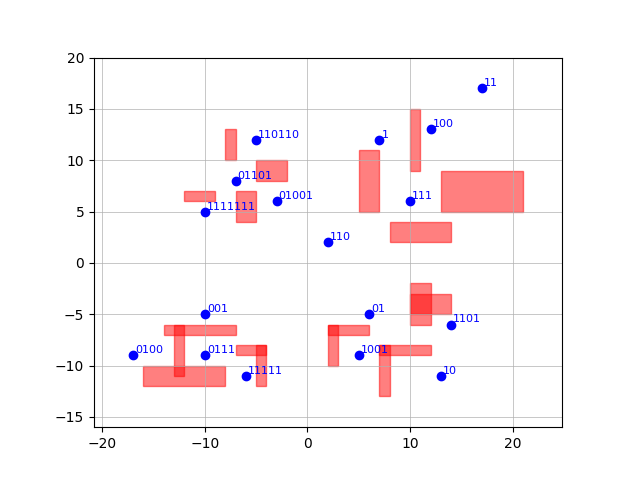
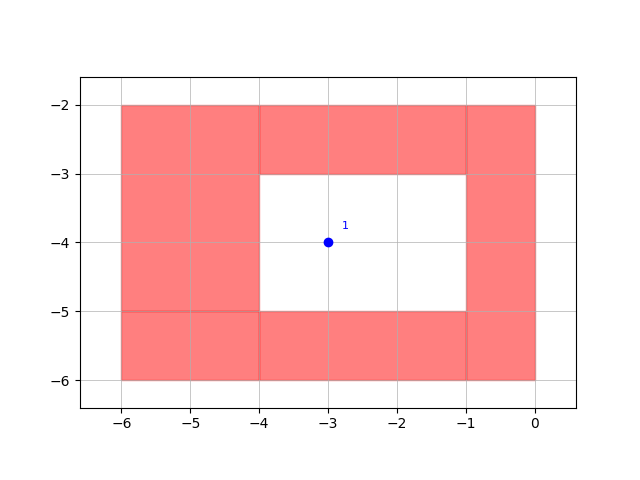
+ relazione

diff --git a/relazione.tex b/relazione.tex
@@ -64,13 +64,128 @@ Le entità principali da modellare sul piano (oltre al piano stesso) sono gli \t
 Di cruciale importanza è la richiesta di sapere, dato un punto $(x, y)$ e il nome $\eta$ di un automa, se esiste un percorso libero da $P(\eta)$ a $(x, y)$ di lunghezza $D(P(\eta), (x, y))$. E' la richiesta più complicata da risolvere (in quanto i richiami si basano su di essa) e si possono fare le seguenti considerazioni:
 
 \begin{itemize}
-    \item poichè si richiede l'esistenza di un percorso libero con lunghezza pari alla lunghezza minima di un percorso tra i due punti, i passi unitari possono essere fatti seguendo al massimo \textit{2} direzioni sulle \textit{4} possibili. Per esempio, un percorso di distanza minima tra il punto $(2, 2)$ e il punto $(5, 5)$ può essere composto, partendo da $(2, 2)$ solo da passi unitari in cui si incrementa di \textit{1} la coordinata \textit{x} o si incrementa di \textit{1} la coordinata \textit{y} (non è mai possibile decrementare tali coordinate, o non si avrebbe un percorso di distanza minima)
+    \item poichè si richiede l'esistenza di un percorso libero con lunghezza pari alla lunghezza minima di un percorso tra i due punti, i passi unitari possono essere fatti seguendo al massimo \textit{2} direzioni sulle \textit{4} possibili. Per esempio, un percorso di distanza minima tra il punto $(2, 2)$ e il punto $(5, 5)$ può essere composto, partendo da $(2, 2)$, solo da passi unitari in cui si incrementa di \textit{1} la coordinata \textit{x} o si incrementa di \textit{1} la coordinata \textit{y} (non è mai possibile decrementare tali coordinate, o non si avrebbe un percorso di distanza minima)
 
     \item partendo da un automa è sicuro che il punto di partenza non si trovi all'interno dell'area di un ostacolo. Nella simulazione di un percorso tra un automa e un punto possiamo affermare che tale percorso non è libero non appena incontra un punto che si trova sul perimetro di un ostacolo. Può essere quindi interessante memorizzare i punti che si trovano sul perimetro degli ostacoli
 \end{itemize}
 
 \section{Modellazione e strutture dati utilizzate}
 
-%% TODO: sulla base delle considerazioni fatte, ho modellato così le entità e non così per questi vantaggi e per non avere questi svantaggi
+Sulla base delle considerazioni fatte e delle operazioni da realizzare è possibile scartare a priori alcune modellazioni possibili delle entità del problema. In particolare si può considerare inefficiente la rappresentazione del piano attraverso una matrice che contenga una corrispondenza tra un punto e l'entità presente correntemente sul piano in tale punto (un automa, un ostacolo o nulla). Questo perchè il piano è potenzialmente infinito e la minima porzione di esso che contiene tutti gli automi e gli ostacoli presenti può essere molto grande. Inoltre per rappresentare un possibile piano con un automa nel punto $(-1000, -1000)$ e un automa nel punto $(1000, 1000)$ verrebbe richiesta una matrice $2001 \times 20001$, il che è inefficiente in termini di spazio. \\
+Per quanto riguarda gli ostacoli non è necessario memorizzare tutti i punti all'interno della loro area, in quanto pochissime operazioni gioverebbero di tale scelta (solo l'operazione di \textit{stato} dato un punto, che troverebbe, se tale punto è interno all'ostacolo, risposta in tempo costante). In particolare un ostacolo è stato rappresentato in questo modo:
+
+
+\begin{lstlisting}[language=Go]
+type punto struct {
+	x int
+	y int
+}
+type ostacolo struct {
+	bassoSx punto 
+	altoDx  punto
+}
+\end{lstlisting}
+
+La struttura \textit{punto} contiene le coordinate \textit{x} ed \textit{y} di un punto del piano, mentre la struttura \textit{ostacolo} contiene le coordinate del vertice in basso a sinistra e del vertice in alto a destra di un ostacolo. Dato un ostacolo \textit{R} e un punto \textit{P} la richiesta di sapere se \textit{P} è contenuto in \textit{R} viene fatta in tempo $O(1)$. \\
+Per quanto riguarda l'insieme di ostacoli presenti in un piano è stato definito un tipo di dato astratto:
+
+\begin{lstlisting}[language=Go]
+type ListOstacoli interface {
+	AddOstacolo(r ostacolo)
+	ContienePunto(p punto) bool
+	StampaOstacoli()
+}
+\end{lstlisting}
+
+Tale tipo di dati rappresenta una lista di ostacoli in grado di eseguire le seguenti operazioni:
+
+\begin{itemize}
+    \item \texttt{AddOstacolo:} dato un ostacolo come parametro, lo aggiunge alla lista
+
+    \item \texttt{ContienePunto:} dato un punto come parametro, restituisce \textit{true} se tale punto è contenuto in almeno un ostacolo della lista, \textit{false} altrimenti
+
+    \item \texttt{StampaOstacoli:} stampa gli ostacoli presenti nella lista
+\end{itemize}
+
+Queste operazioni sono tutte e sole quelle che un insieme di ostacoli deve saper fare per rispondere al problema (per esempio, non è richiesto che un ostacolo possa essere eliminato). Tale tipo di dato astratto è stato implementato mediante l'utilizzo di una lista concatenata, con puntatore alla testa e alla coda. Questo permette di avere operazioni di inserimento in tempo $O(1)$. L'unico punto a sfavore è che le altre due operazioni, dato \textit{n} il numero di ostacoli, costano $O(n)$. Ho cercato di trovare un ordinamento possibile per gli ostacoli, in base a qualche tipo di parametro (ad esempio coordinate o distanza rispetto a un punto dato) per avere una ricerca logaritmica rispetto al numero di ostacoli ma non sono riuscito. Potrebbe essere un miglioramento possibile, ma l'inserimento avrebbe costo $O(n)$. 
+
+A questo punto, per modellare l'intero piano, con tutte le entità del problema, è stata scelta la seguente soluzione:
+
+\begin{lstlisting}[language=Go]
+type piano *struct {
+	automi   map[string]punto
+	ostacoli ListOstacoli
+	puntiConosciuti map[punto]string
+}
+\end{lstlisting}
+
+Innanzitutto il piano è rappresentato da un puntatore ad una struttura, questo per facilitare il passaggio per parametro di esso a funzioni (in quanto in Go le strutture verrebbero passate per copia come parametro), e le eventuali modifiche saranno riflesse su di esso. Gli automi sono stati rappresentati con una mappa che ha per chiave una stringa che rappresenta il loro nome univoco, e il valore è un punto che rappresenta la loro posizione nel piano. Questo permette, dato il nome di un automa, di avere accesso alla sua posizione in tempo costante, e tale funzionalità è utile a molte operazioni (come l'esistenza di un percorso). Gli ostacoli sono rappresentati dal tipo di dato astratto \textit{ListOstacoli} presentato precedentemente, che verrà implementato tramite una lista concatenata, come spiegato prima. Ogni nodo della lista concatenata rappresenta un ostacolo presente sul piano. Da notare che, nel caso venisse trovato un possibile ordinamento degli ostacoli per avere delle ricerche logaritmiche in base al numero di essi, basterebbe implementare l'interfaccia con un tipo di dati concreto e inizializzare il piano utilizzando tale tipo, tutte le operazioni continuerebbero a funzionare. 
+
+Il piano viene rappresentato utilizzando una struttura dati aggiuntiva oltre a quelle per modellare automi e ostacoli. Essa ha per nome \texttt{puntiConosciuti} ed è una mappa che ha per chiave un punto e per valore una stringa. L'intento di tale struttura è memorizzare i punti conosciuti del piano di cui si conosce l'entità che giace su di essi, in modo tale da sfruttare tali informazioni per implementare le operazioni richieste. In particolare:
+
+\begin{itemize}
+    \item Quando viene aggiunto un automa in un punto del piano, bisognerà aggiornare tale struttura dati. Dato un punto del piano, se su di esso giace uno o più automi, allora la chiave rappresentata da tale punto, nella struttura, avrà per valore $Ax$, dove \textit{x} indica il numero di automi giacenti su tale punto
+
+    \item Quando viene aggiunto un ostacolo, la struttura conterrà tutti una entry per ogni punto del perimetro di tale ostacolo. In particolare tutti i punti del perimetro dell'ostacolo saranno memorizzati nella struttura e avranno per valore la stringa "O". Questo permette di avere accesso ai punti del perimetro degli ostacoli in tempo $O(1)$. Come detto in precedenza, se viene cercata l'esistenza di un percorso libero con distanza minima tra un automa e un punto, è certo che nella simulazione di un percorso, se esso va contro un punto del perimetro di un ostacolo, si può dire che non è libero. Sicuramente un percorso andrà prima a "sbattere" contro un punto di un perimetro di un ostacolo che su un punto interno all'area di un ostacolo
+
+
+    \item Quando viene richiesto lo stato di un punto del piano e si scopre che esso è vuoto, nella struttura verrà memorizzata tale informazione. Quindi se viene richiesto lo stato del punto $(5,3)$ del piano e su di esso non giace nè un automa nè un ostacolo, la struttura avrà una entry con chiave il punto $(5, 3)$ e valore la stringa "E"
+\end{itemize}
+
+Viene introdotta della ridondanza di informazioni, poichè dato il vertice in basso a sinistra e il vertice in alto a destra di un ostacolo è possibile sapere tutti i punti compresi nell'area di tale ostacolo. Però, per sapere tali informazioni per ogni ostacolo il tempo impiegato è proporzionale al numero di ostacoli, mentre con l'introduzione di questa struttura, per i punti di cui è interessante sapere se giacciono su un ostacolo, il tempo impiegato è costante (questo ridurrà moltissimo il tempo richiesto per l'operazione di esistenza di un percorso tra un punto e un automa e quindi anche quella di \textit{richiamo}). Anche gli automi sono rappresentati in maniera ridondante, ma questo permette, di sapere in tempo costante se in un punto del piano giace un automa (e questo è richiesto per esempio dall'operazione di \textit{stato}), senza dover scorrere tutti gli automi presenti. \\
+Inoltre se un utente richiede lo stato di moltissimi punti del piano, ed essi sono vuoti (non giace nessuna entità) la struttura memorizzerà tutte queste informazioni. Quello che ci si aspetta, normalmente, è che un utente richieda lo stato di un punto del piano per sapere se può effettuare l'inserimento di un automa. La memorizzazione del fatto che un punto sia vuoto serve proprio a questo: quando poi l'utente richiederà l'inserimento di un automa non bisognerà ricontrollare se il punto scelto per esso giace su degli ostacoli, ma si può sapere in tempo costante (se si scopre che gli utenti richiedono lo stato di molti punti senza la finalità di aggiungere un automa o un ostacolo giacente su di essi sarà più utile non memorizzare lo stato di punti vuoti). Naturalmente queste informazioni necessitano di essere coerenti tra di loro.
+
+
+\section{Operazioni e costi}
+
+In seguito verrà discussa l'implementazione degli algoritmi per risolvere le operazioni richieste, con i relativi costi. 
+
+
+\subsection{stampa}
+
+Questa operazione viene implementata dall'omonima funzione e si occupa di stampare l'elenco degli automi seguito dall'elenco degli ostacoli secondo il formato specificato nelle specifiche di implementazione. A tal proposito è necessario iterare tutti gli elementi della mappa \texttt{automi} e stamparne nome e coordinate tramite una funzione \texttt{Println} del package \texttt{fmt}, che si può assumere abbia costo $O(1)$ in quanto generalmente la stringa da stampare è molto corta (verrà fatta tale assunzione ogni volta che è presente una funzione di stampa). Inoltre è necessario stampare le coordinate di tutti gli ostacoli, e quindi utilizzare il metodo \texttt{StampaOstacoli}, il quale dovrà scorrere tutti gli ostacoli presenti in quanto la lista di ostacoli è una lista concatenata. \\
+\textbf{Tempo:} il tempo necessario per eseguire tale funzione, dato \textit{n} il numero di automi nel piano e \textit{m} il numero di ostacoli è $O(n + m)$.\\
+\textbf{Spazio:} non è previsto l'uso di spazio aggiuntivo rispetto al piano passato come parametro, quindi lo spazio usato è $O(1)$. 
+
+
+\subsection{ostacolo}
+
+Questa operazione, specificati i vertici in basso a sinistra e in alto a destra, permette di creare un ostacolo sul piano se esso non contiene punti su cui giacciono automi. Questa operazione è implementata dalla funzione \texttt{aggiungiOstacolo} e quello che occorre fare è:
+
+\begin{itemize}
+    \item Iterare tutti gli automi nel piano (attraverso la mappa che li rappresenta) e verificare che nessun automa giace sull'area su cui si vuole posizionare l'ostacolo. Data la posizione di un automa questa verifica si fa in tempo costante grazie alla funzione \texttt{contiene}. Il costo è quindi relativo all'iterazione degli automi nel piano, quindi sia \textit{a} il numero di automi il costo in termini di tempo di questa parte è $O(a)$
+
+    \item Se l'area in cui si vuole collocare l'ostacolo non contiene alcun automa, bisogna aggiungere l'ostacolo alla lista di ostacoli del piano. Questo inserimento è fatto in tempo $O(1)$ per via dell'uso di una lista concatenata con puntatore alla coda
+
+
+    \item Una volta aggiunto l'ostacolo alla lista, per mantenere la coerenza su quanto detto sulla struttura \texttt{puntiConosciuti} del piano, è necessario aggiungere i punti del perimetro di tale ostacolo ai punti conosciuti del piano, marcandoli come punti su cui giace un ostacolo. Siano $P = (x_0, y_0)$ e $Q = (x_1, y_1)$ rispettivamente il vertice in basso a sinistra e il vertice in alto a destra dell'ostacolo, allora si definisce $n = x_1 - x_0$ e $m = y_1 - y_0$ e il costo in termini di tempo di quanto detto è quindi $O(n + m)$
+\end{itemize}
+
+\textbf{Tempo:} in base a quanto spiegato il costo in termini di tempo di questa operazione è $O(a + n + m)$.\\
+\textbf{Spazio:} vengono usate variabili di supporto per creare due punti e un rettangolo. Il costo in spazio è $O(1)$. 
+
+\subsection{posizioni}
+
+Questa operazione, specificato un prefisso, si occupa di stampare la posizione degli automi nel piano con prefisso dato. Tale operazione viene implementata dall'omonima funzione e prevede lo scorrimento di tutti gli automi nel piano, grazie alla struttura \texttt{automi} del piano, e per ogni automa viene controllato se ha il nome con prefisso dato. Tale verifica viene fatta grazie alla funzione \texttt{HasPrefix} del package \texttt{strings} il cui costo in termini di tempo è dato dalla lunghezza del prefisso nel caso peggiore. \\
+\textbf{Tempo:} sia $a$ il numero di automi presenti nel piano e $n$ la lunghezza del prefisso, allora il costo di questa operazione in termini di tempo è $O(a \cdot n)$.\\
+\textbf{Spazio:} non viene utilizzato spazio aggiuntivo, quindi il costo è $O(1)$.
+
+
+\subsection{stato}
+
+Tale operazione, date le coordinate di un punto del piano, si occupa di stampare \textit{"A"} se sul punto giace un automa, \textit{"O"} se sul punto giace un ostacolo \textit{"E"} altrimenti. Questa operazione viene implementata dall'omonima funzione e viene controllato se nella struttura \texttt{puntiConosciuti} è presente una entry che ha per chiave il punto con coordinate specificate dall'utente. Se questo è vero la risposta viene data in tempo $O(1)$. Generalmente questo succede quando la richiesta viene fatta su un punto su cui giace un automa o il perimetro di un ostacolo.\\
+Se tale entry non è presente, allora bisogna iterare su tutti gli ostacoli presenti e capire se almeno uno di tali ostacoli contiene il punto specificato. \\
+\textbf{Tempo:} nel caso peggiore bisogna, come detto prima, iterare su tutti gli ostacolo. Sia $n$ il numero di ostacoli, il costo in termini di tempo di questa operazione è $O(n)$.\\
+\textbf{Spazio:} vengono utilizzate due variabili aggiuntive di supporto, il costo è $O(1)$. 
+
+\subsection{automa}
+
+Questa operazione, specificato il nome di un automa e il punto su cui posizionarlo, lo posiziona nel piano se in tale punto non giace già un ostacolo (se l'automa esiste già viene riposizionato). Essa viene implementata dall'omonima funzione e viene controllato se si conosce se nel piano in tale punto è presente un automa o non giace nulla (tramite la struttura \texttt{puntiConosciuti}). Se è questo il caso vengono aggiornate tutte le strutture per mantenere la coerenza di dati e posizionato l'automa nel punto. Invece se si sa che su tale punto giace un ostacolo non viene fatto nulla. Tutte le funzioni e istruzioni eseguite fino a questo punto costano tempo $O(1)$. Nel caso in cui non si conosce se giace o meno un automa, un ostacolo o nulla su tale punto, è necessario iterare tutti gli ostacoli e controllare se almeno uno di essi contiene il punto su cui si vuole posizionare l'automa. \\ 
+\textbf{Tempo:} il tempo nel caso peggiore, dato \textit{n} il numero di ostacoli è $O(n)$ ed esso si presenta quando non si conosce tramite la struttura \texttt{puntiConosciuti} se sul punto specificato giace o meno un automa o un ostacolo. \\
+\textbf{Spazio:} vengono usate delle variabili di supporto, ma esse sono in numero sempre uguale e occupano lo stesso spazio indipendentemente dalla lunghezza dell'istanza in input. Il costo in spazio è quindi $O(1)$.
+
+
+
+
 
 \end{document}

diff --git a/main.go b/main.go
@@ -347,7 +347,10 @@ func dimensioneTabella(punto1 punto, punto2 punto) (int, int) {
 
 // con l'assunzione che il punto di partenza debba avere direzione dx = 1 o 0, percorriamo la tabella sempre da sinistra verso destra
 func esistePercorso(p piano, partenza punto, arrivo punto) bool {
-
+	// il percorso non sarebbe di distanza al minimo 1
+	if partenza == arrivo {
+		return false
+	}
 	righe, colonne := dimensioneTabella(partenza, arrivo)
 	_, diry := direzioni(partenza, arrivo)
 	partenzaRighe, finaleRighe := partenzaFineRighe(diry, righe) // in base alla direzione di y, determiniamo la riga di partenza e di arrivo. Se la direzione va verso il basso, si parte dalla riga più in alto, se no dalla riga più in basso
@@ -436,7 +439,7 @@ func richiamo(p piano, x int, y int, s string) {
 	}
 	//se non conosco cosa c'è devo vedere se c'è un ostacolo o meno
 	if str == "" && p.ostacoli.ContienePunto(punto) {
-		p.puntiConosciuti[punto] = "O"
+		// p.puntiConosciuti[punto] = "O"
 		return
 	}
 
@@ -504,7 +507,7 @@ func stato(p piano, x int, y int) {
 
 	if p.ostacoli.ContienePunto(punto) {
 		fmt.Println("O")
-		p.puntiConosciuti[punto] = "O"
+		//p.puntiConosciuti[punto] = "O"
 	} else {
 		fmt.Println("E")
 		p.puntiConosciuti[punto] = "E"
